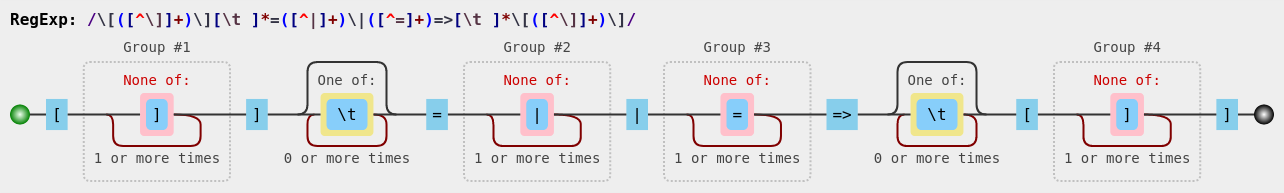
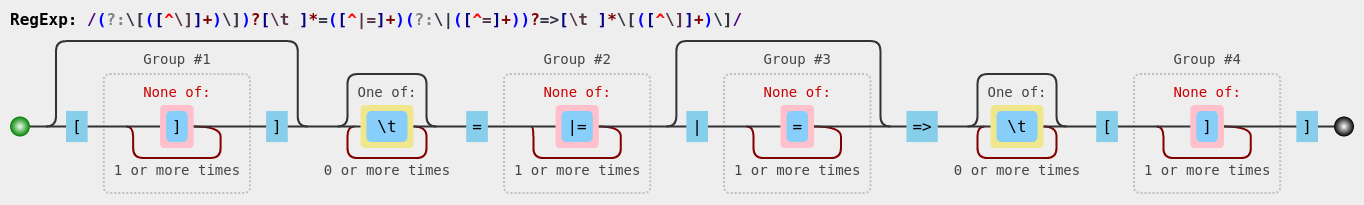
refactor (versum/dcc): new component/connection parameters

diff --git a/versum/syntax.md b/versum/syntax.md
@@ -601,10 +601,15 @@ Defines a component (Digital Content Component - DCC). Besides the DCC type and 
 
 ~~~
 [type | id][[
-  * attribute
-  * attribute
+  * attribute: value
+  * attribute: value
+  ...
   content
 ]]
+~~~
+or
+~~~
+[type | id][["content";attribute:value;attribute:value;...]]
 ~~~
 
 * Expression: `\[[ \t]*([^|\]]+)(?:(?:\|[ \t]*([^\]]+))?[ \t]*\]\[\[((?:[^\]]*(?:\][^\]]+)*)+)\]\]|\|[ \t]*([^\]]+)[ \t]*\](?:\[\[((?:[^\]]*(?:\][^\]]+)*)+)\]\])?)`
@@ -613,10 +618,17 @@ Defines a component (Digital Content Component - DCC). Besides the DCC type and 
   * Group #3 or #5: attributes / content
 ![Component Expression](expressions/component.png)
 
-* Expression to recognize attributes and distinguish them from content: `^[ \t]*(?:[\+\*])[ \t]+([\w-]+)[ \t]*(?::[ \t]*([^\n\r\f]+))?$`
+Expression to recognize attributes and distinguish them from content.
+
+Vertical: `^[ \t]*[\+\*][ \t]+([\w-]+)[ \t]*(?::[ \t]*([^\n\r\f]+))?$`
   * Group #1: attribute name
   * Group #2: attribute value
-![Attributes Expression](expressions/component-attributes.png)
+![Attributes Vertical](expressions/component-attributes-vertical.png)
+
+Horizontal: `(?:^|;)[ \t]*([\w-]+)[ \t]*(?::[ \t]*(?:"([^"]*)"|([^"][^;]*)))?`
+  * Group #1: attribute name
+  * Group #2 or #3: attribute value
+![Attributes Horizontal](expressions/component-attributes-horizontal.png)
 
 * Object:
 ~~~
@@ -648,8 +660,12 @@ A connection between two components (DCCs), specifying which is the triggering e
 ~~~
 [id source] =trigger|topic=> [id target]
 ~~~
+or
+~~~
+=trigger|topic=> [id target]
+~~~
 
-* Expression: `\[([^\]]+)\][ \t]*=([^|]+)\|([^=]+)=>[ \t]*\[([^\]]+)\]`
+* Expression: `(?:\[([^\]]+)\])?[ \t]*=([^|=]+)(?:\|([^=]+))?=>[ \t]*\[([^\]]+)\]`
   * Group #1: source component, which triggers the operation through the connection
   * Group #2: triggering event in the source component
   * Group #3: the topic of the message sent to the target
@@ -662,16 +678,23 @@ A connection between two components (DCCs), specifying which is the triggering e
    type: "connection"
    from: <source component>
    trigger: <triggering event>
-   topic: <the topic of the message sent to the target>
+   map: <the topic of the message sent to the target>
    to: <target component>
-   content: <content not recognized as attribute>
 }
 ~~~
 
 ### Object to HTML
+
+* version with the source component (connection)
 ~~~
 <connect-dcc from="[from]" trigger="[trigger]" to="[to]" topic="[topic]">
 </connect-dcc>
+~~~
+
+* version without the source component (subscribe)
+~~~
+<subscribe-dcc target="[to]" topic="[trigger]" map="[topic]">
+</subscribe-dcc>
 ~~~
 
 <!-- Jekyll directive to avoid Liquid filters
